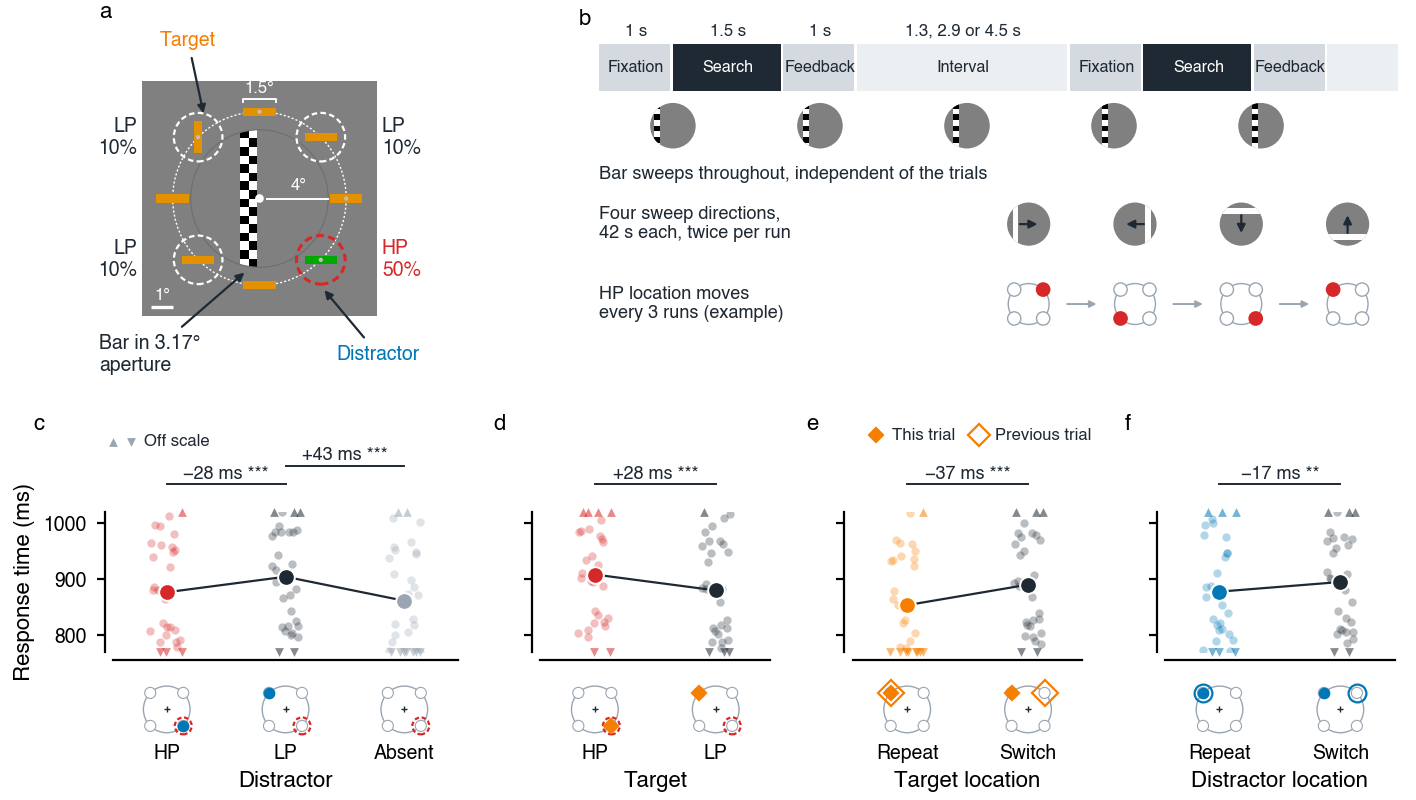
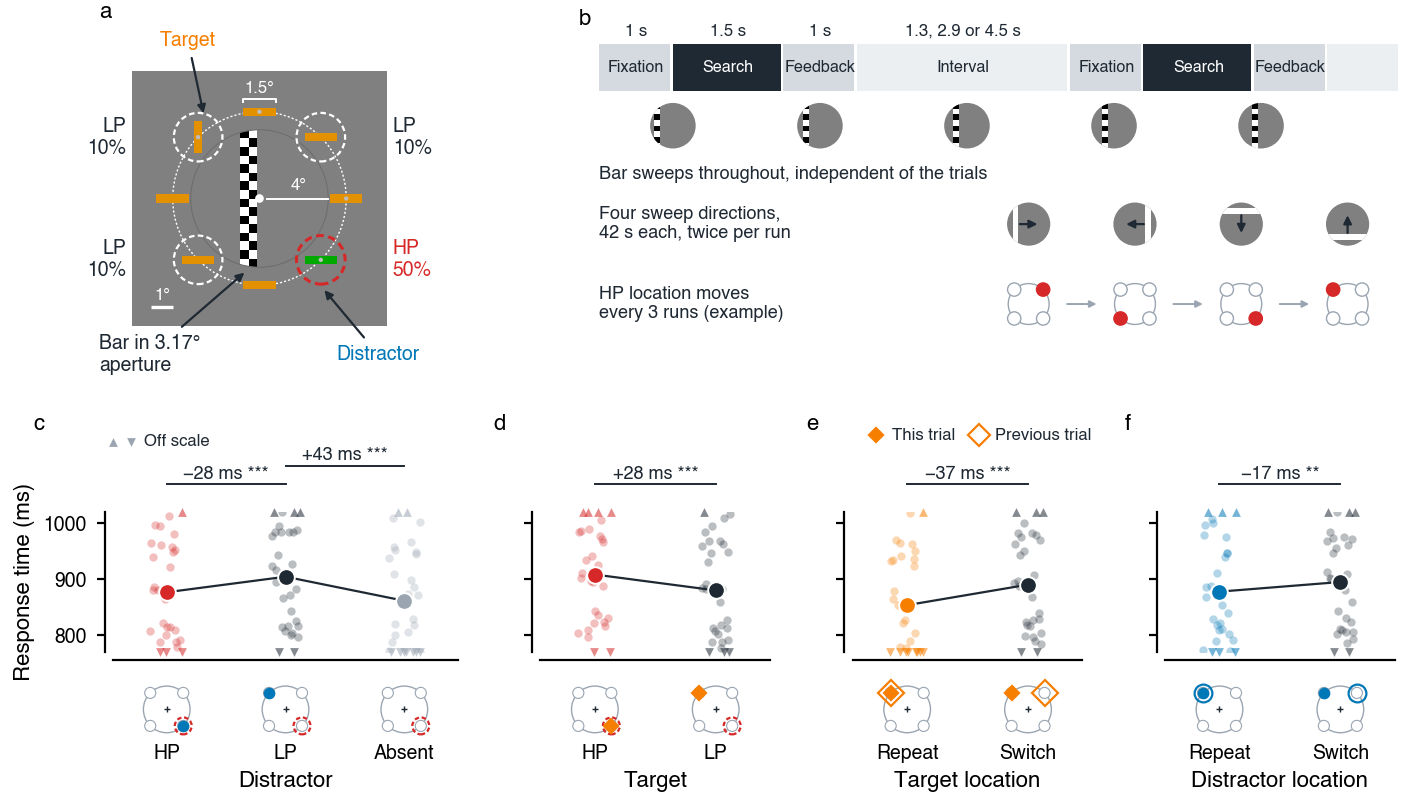
Fig. 1a: larger grey screen so the 1.5° label sits on it; LP/HP labels moved out to match

Changed region(s): [[0.0621, 0.0625, 0.3107, 0.4062]]

diff --git a/retsupp/visualize/paper/plot_fig1.py b/retsupp/visualize/paper/plot_fig1.py
@@ -138,7 +138,7 @@ def display(ax, search=True, fix='w', lim=5.4, scale=1., bar=True, hp=None):
 
 
 def panel_display(ax, margin=9.3):
-    display(ax)
+    display(ax, lim=5.9)   # a little more screen, so the 1.5° label above the top item sits on grey
     pos = item_positions()
     ax.add_patch(Circle(pos[7], 1.12, fill=False, ec=HP, lw=1.1, ls=(0, (2.5, 1.5)), zorder=6, clip_on=False))
     kw = dict(fontsize=7, color=FG, annotation_clip=False,
@@ -161,8 +161,8 @@ def panel_display(ax, margin=9.3):
     ax.set_xlim(-margin - .2, margin + .2)
     ax.set_ylim(-8, 8.6)
     # Where the distractor can appear, with its probability over all trials.
-    ax.text(5.65, pos[7][1], 'HP\n50%', color=HP, fontsize=7, fontweight='bold', va='center', ha='left')
-    for j, x, ha in ((1, 5.65, 'left'), (3, -5.65, 'right'), (5, -5.65, 'right')):
+    ax.text(6.15, pos[7][1], 'HP\n50%', color=HP, fontsize=7, fontweight='bold', va='center', ha='left')
+    for j, x, ha in ((1, 6.15, 'left'), (3, -6.15, 'right'), (5, -6.15, 'right')):
         ax.add_patch(Circle(pos[j], 1.12, fill=False, ec='w', lw=.8, ls=(0, (2.5, 1.5)), zorder=6))
         ax.text(x, pos[j][1], 'LP\n10%', color=FG, fontsize=7, va='center', ha=ha)
 
